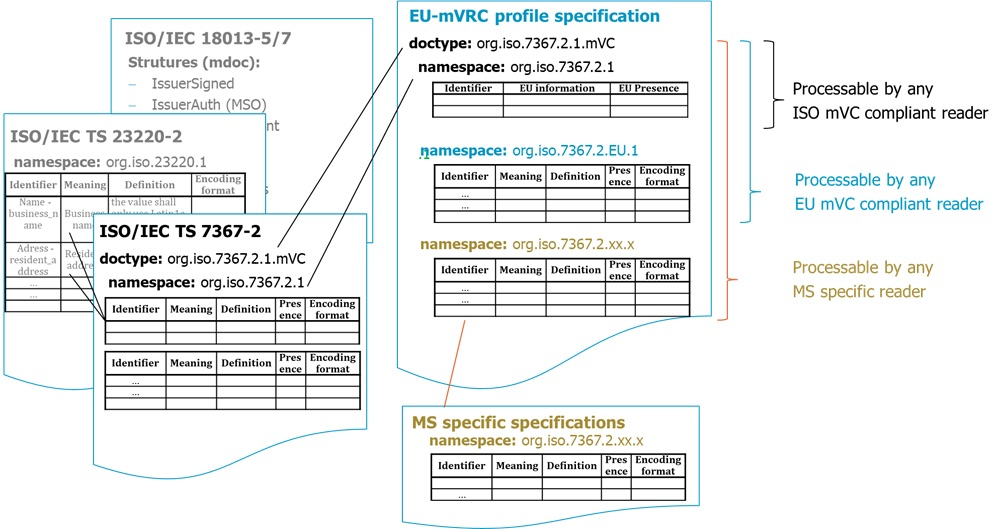
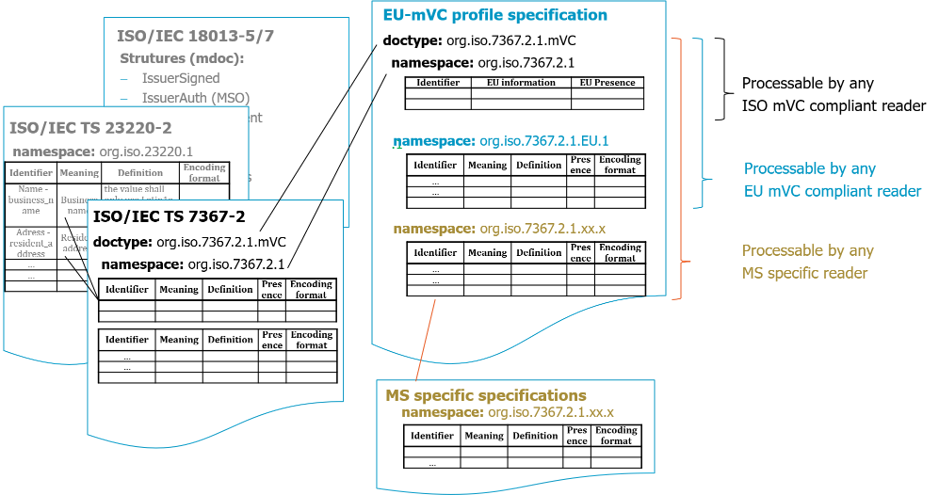
Updating version of mVRC rulebook to v0.5 (#157)
Changes in mVRC rulebook: 
1.	Wrong name space identifier in figure, it should read org.iso.7367.2.1.EU.1   (minor)
2.	Missing clause 3.1.3.4 (minor)
3.	Structure added in supplemental_person_data and supplemental_organization_data; changed to conditional; condition added  (technical change)
4.	Typo 3.1.3.3 credentials:CBOR (minor) 
5.	Clarification on reader behavior if e.g. wheelbase and min max is present (minor) 
6.	Align terms and definitions, see also 1.4  
7.	3.1.2.2 add reference to 7367-2 spec (minor)

diff --git a/docs/rulebook/wp5/mVRC-rulebook.md b/docs/rulebook/wp5/mVRC-rulebook.md
@@ -10,6 +10,7 @@ Author(s):
 | 0.2 | 14.02.2026 | first draft of EU-mVRC |
 | 0.3 | 17.04.2026 | refinement of description of presence of data elements and encoding of user, holder and consumer; some changes from conditional to optional |
 | 0.4 | 11.05.2026 | synchronization with final version of [ISO/IEC 7367-2], e.g. changed identifiers chassis_number and class_off_hybrid_vehicle_code as well as editorial changes |
+| 0.5 | 15.06.2026 | Structure added in supplemental_person_data and supplemental_organization_data and changed to conditional; editorial changes |
 
 **Feedback:**
 
@@ -46,7 +47,7 @@ statements of fact.
 
 ### 1.4 Terminology
 
-This document uses the terminology specified in Annex 1 of the ARF.
+Terminologies and definitions within Aptitude project are listed in [APTITUDE Glossary](../glossary.md)
 
 ## 2 Attestation attributes and metadata
 
@@ -88,7 +89,7 @@ The data elements are specified in Table 1 in clause 3.1.2.2.
 
 ##### 3.1.2.2 ISO compliant data elements
 
-The EU-mVRC ISO compliant data elements SHALL be as defined in Table 1 and belong to the namespace given in 3.1.1.
+The EU-mVRC ISO compliant data elements SHALL be as defined in Table 1 and belong to the namespace given in 3.1.1. The encoding of the data elements as given in [ISO/IEC 7367-2] applies.
 
 ###### Table 1 — ISO compliant data elements
 
@@ -123,9 +124,9 @@ The EU-mVRC ISO compliant data elements SHALL be as defined in Table 1 and belon
 
 ##### 3.1.2.3   User and owner data elements
 
-The user information in data element ``users`` contains information describing the name and address of the **holder** (C.1) of the vehicle according to [EU DIR 2025/0096]. There SHALL be one holder. The data element ``users`` contains one recorded entity with the specific personal details. A holder SHALL be either a natural person with details given in Table 2 or an organization with details given in Table 3. The encoding of the data elemenst as given in clause 6.2.3.2 in [ISO/IEC 7367-2] applies.
+The user information in data element ``users`` contains information describing the name and address of the **holder** (C.1) of the vehicle according to [EU DIR 2025/0096]. There SHALL be one holder. The data element ``users`` contains one recorded entity with the specific personal details. A holder SHALL be either a natural person with details given in Table 2 or an organization with details given in Table 3. The encoding of the data elements as given in clause 6.2.3.2 in [ISO/IEC 7367-2] applies.
 
-The owner information in data element ``owners`` contains information describing the name and address of the recorded **owner(s)** (C.2) of the vehicle according to [EU DIR 2025/0096]. There can be more than one owner. The data element ``owners`` MAY contain more than one recorded entity with the specific personal details. One recorded entity of an owner SHALL be either a natural person with details given in Table 2 or an organization with details given in Table 3. The encoding of the data elemenst as given in clause 6.2.3.3 in [ISO/IEC 7367-2] applies.
+The owner information in data element ``owners`` contains information describing the name and address of the recorded **owner(s)** (C.2) of the vehicle according to [EU DIR 2025/0096]. There can be more than one owner. The data element ``owners`` MAY contain more than one recorded entity with the specific personal details. One recorded entity of an owner SHALL be either a natural person with details given in Table 2 or an organization with details given in Table 3. The encoding of the data elements as given in clause 6.2.3.3 in [ISO/IEC 7367-2] applies.
 
 ###### Table 2 — NaturalPerson - key details
 
@@ -136,7 +137,7 @@ The owner information in data element ``owners`` contains information describing
 | ``family_name_latin1``| EU - corresponding harmonised Union code: <br> **(C.1.1)** surname(s) or business name<br>  **(C.2.1)** surname or business Name<br>  **(C.3.1)** surname or business Name<br> *Note:* applicable if C.1.1, C.2.1 or C.3.1 refer to a natural person | O |
 | ``given_name`` | EU - corresponding harmonised Union code:<br>  **(C.1.2)** other name(s) or initial(s) (where appropriate)<br>  **(C.2.2)** other name(s) or initial(s) (where appropriate)<br> **(C.3.2)** other name(s) or initial(s) (where appropriate)<br> *Note:* applicable if C.1.2, C.2.2 or C.3.2refer to a natural Person<br> in case not available use '-'  | M |
 | ``given_name_latin1`` | EU - corresponding harmonised Union code:<br> **(C.1.2)** other name(s) or initial(s) (where appropriate)<br> **(C.2.2)** other name(s) or initial(s) (where appropriate)<br> *Note:* applicable if C.1.2 or C.2.2 refer to a natural Person<br> **(C.3.2)** other name(s) or initial(s) (where appropriate)<br> *Note:* applicable if C.1.2 or C.2.2 refer to a natural Person | O |
-| ``supplemental_person_data`` | **(C.1.4)** electronic address (e-mail) of the holder of the registration<br> **(C.2.4)** electronic address (e-mail) of the owner certificate<br>EU - corresponding harmonised Union code:<br> In case of a holder optional element **(C.4)** Where the particulars specified in f, code C.2 are not included in the Registration Certificate, reference to the fact that the holder of the Registration Certificate: (a) is the vehicle owner, (b) is not the vehicle owner, (c) is not identified by the Registration Certificate as being the vehicle owner | M |
+| ``supplemental_person_data`` | encoding as given after the table<br><br> EU - corresponding harmonised Union code:<br> **(C.1.4)** electronic address (e-mail) of the holder of the registration<br> **(C.2.4)** electronic address (e-mail) of the owner certificate<br> **(C.4)** Where the particulars specified in f, code C.2 are not included in the Registration Certificate, reference to the fact that the holder of the Registration Certificate: (a) is the vehicle owner, (b) is not the vehicle owner, (c) is not identified by the Registration Certificate as being the vehicle owner<br><br> *Condition:* mandatory if one of the items **(C.1.4)**, **(C.2.4)**, **(C.4)** apply | C |
 
 ###### Table 3 — Organization - key details
 
@@ -145,7 +146,28 @@ The owner information in data element ``owners`` contains information describing
 | ``full_adress`` | no further information, see Table 4  | M |
 | ``organization_name`` | EU - corresponding harmonised Union code: <br> **(C.1.1)** surname(s) or business name <br> **(C.2.1)** surname or business name<br> **(C.3.1)** surname or business name<br> *Note:* applicable if C.1.1, C.2.1 or C.3.1 refer to an organization | M |
 | ``organization_name_latin1`` | EU - corresponding harmonised Union code: <br> **(C.1.1)** surname(s) or business name<br> **(C.2.1)** surname or business name<br> **(C.3.1)** surname or business name<br> *Note:* applicable if C.1.1, C.2.1 or C.3.1 refer to an organization | O |
-| ``supplemental_organization_data`` | no further Information | O |
+| ``supplemental_organization_data`` | encoding as given after the table<br><br> EU - corresponding harmonised Union code:<br> **(C.1.4)** electronic address (e-mail) of the holder of the registration<br> **(C.2.4)** electronic address (e-mail) of the owner certificate<br> **(C.4)** Where the particulars specified in f, code C.2 are not included in the Registration Certificate, reference to the fact that the holder of the Registration Certificate: (a) is the vehicle owner, (b) is not the vehicle owner, (c) is not identified by the Registration Certificate as being the vehicle owner<br><br> *Condition:* mandatory if one of the items **(C.1.4)**, **(C.2.4)**, **(C.4)** apply | C |
+
+The elements ``supplemental_person_data`` and ``supplemental_organization_data`` are defined as a map structure in clause 6.2.3.2 in [ISO/IEC 7367-2]. In the EU-mVRC this map SHALL be encoded as follows. The element ``additional_info`` MAY contain any additional information.
+
+```cddl
+supplemental_person_data = {
+ ? "email" : tstr,                                         ; according to Table 2
+ ? "rel_holder_to_owner" : rel_holder_to_owner_value,      ; according to Table 2
+ ? "additional_info" : tstr
+}
+
+supplemental_organization_data = {
+ ? "email" : tstr,                                         ; according to Table 3
+ ? "rel_holder_to_owner" : rel_holder_to_owner_value,      ; according to Table 3
+ ? "additional_info" : tstr
+}
+
+rel_holder_to_owner_value =
+     "(a) is the vehicle owner" /
+     "(b) is not the vehicle owner" /
+     "(c) is not identified by the Regsistration Certificate as being the vehicle owner"
+```
 
 ###### Table 4 — Address - key details
 
@@ -235,7 +257,7 @@ The seating information contains information describing the seating and standing
 
 ##### 3.1.2.9   Dimensions info
 
-The dimension information contains details about the dimensions of a vehicle such as wheelbase, length, and width. All details are optional and can be absent.
+The dimension information contains details about the dimensions of a vehicle such as wheelbase, length and width. All elements within dimension information are optional and can be absent. If present, the conditions on some of the elements specified in [ISO/IEC 7367-2] apply.
 
 ###### Table 10 — Dimensions info key details
 
@@ -317,7 +339,7 @@ VehicleInfoExtEU = {
 | ``max_speed`` | Maximum speed | EU - corresponding harmonised Union code:<br> **(T)** maximum speed (in km/h)<br> eCoC corresponding code: MaximumSpeed | O | uint |
 | ``fuel_tank`` | Capacity fuel tank | EU - corresponding harmonised Union code:<br> **(W)** fuel tank(s) capacity (in litres) | O | uint |
 
-##### 3.1.3.5 Consumer info extended EU
+##### 3.1.3.4 Consumer info extended EU
 
 The data element ``consumer_info_ext_eu`` contains information describing the name and address of the recorded consumer of the vehicle. A consumer is natural person or organization who may use the vehicle by virtue of a legal right other than that of ownership. There SHALL be one consumer. The data element ``consumer_info_ext_eu`` contains one recorded entity with the specific personal details. A consumer SHALL be either a natural person with details given in Table 2 or an organization with details given in Table 3. The encoding of the structure ``RecordedEntity`` as given in clause 6.2.3.2 in [ISO/IEC 7367-2] applies.
 
@@ -330,7 +352,7 @@ ConsInfoExt = [+RecordedEntity]      ; according to paragraph 6.2.3.2 User infor
                                      ; Table 2 and Table 3 of this document
 ```
 
-##### 3.1.3.6 Axle info EU
+##### 3.1.3.5 Axle info EU
 
 The data element ``axle_info_eu`` contains details about the distribution of the technically permissible maximum laden mass among the axles of vehicles with a total exceeding 3 500 kg. The definition of the elements in the axle information can be found in Table 13.
 
@@ -357,7 +379,7 @@ axledata =  {
 | ``axle_number`` | Axle number | EU - corresponding harmonised Union code:<br> **(N)** axle 1 (in kg), where appropriate | O | uint |
 | ``techn_perm_max_laden_mass_axle`` | technically permissible maximum laden mass on the axle | EU - corresponding harmonised Union code:<br> **(N)** (in kg), where appropriate | O | uint |
 
-##### 3.1.3.7 Environmental info EU
+##### 3.1.3.6 Environmental info EU
 
 The data element ``env_info_eu`` contains about the environmental aspects of vehicles. The definition of the elements in the environmental information can be found in Table 14.
 
@@ -427,7 +449,9 @@ If revocation of mVC is required the Pub-EAA provider SHALL provide a status lis
 
 ## 7 Compliance
 
-The specification of the mVC is compliant to the ARF, i.e. the mdoc encoding of a Pub-EAA, and [ISO/IEC 7367-2] as well as with [EU DIR 2025/0096].
+The specification of the EU-mVRC is compliant to the ARF, i.e. the mdoc encoding of a Pub-EAA, and [ISO/IEC 7367-2] as well as with [EU DIR 2025/0096].
+
+If the content of any optional data element or any optional element within a structure is not encoded as specified in the EU-mVRC rulebook, the reader SHALL ignore the content.
 
 ## 8 References
 
